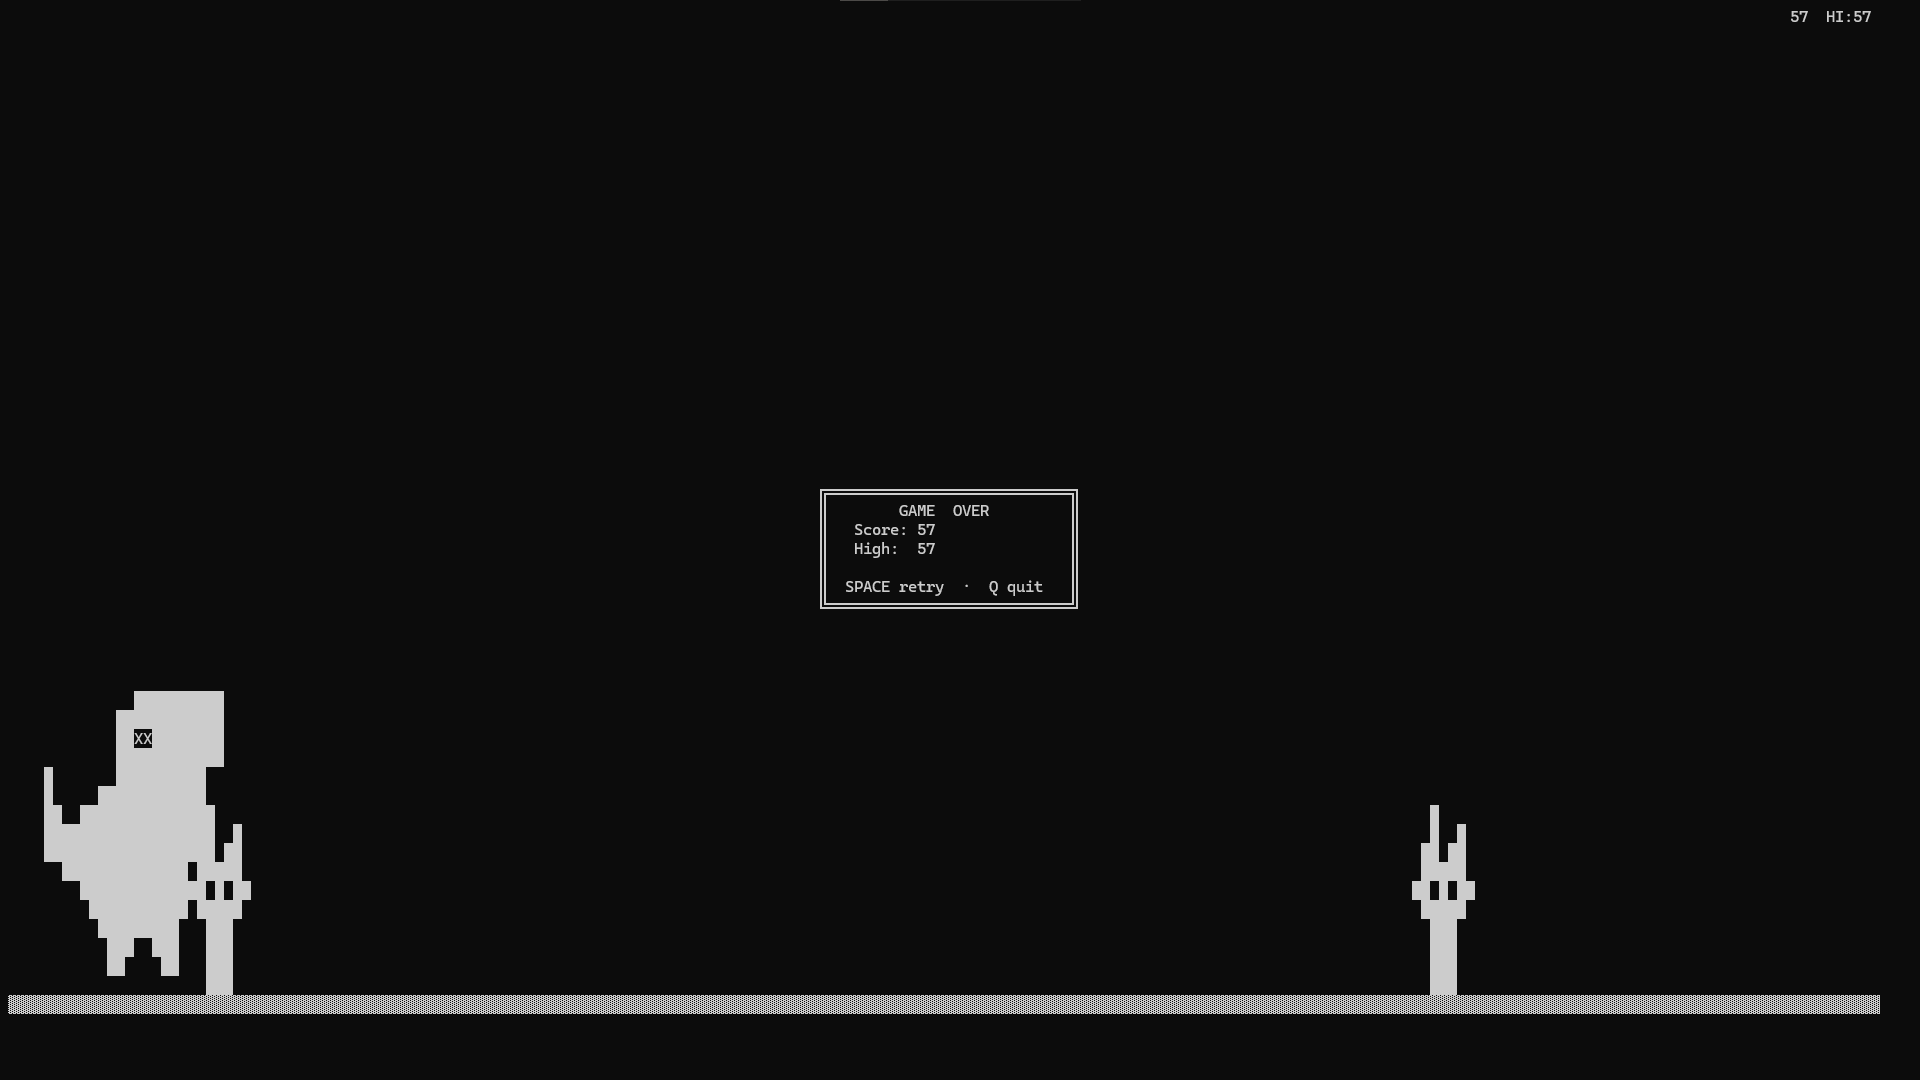
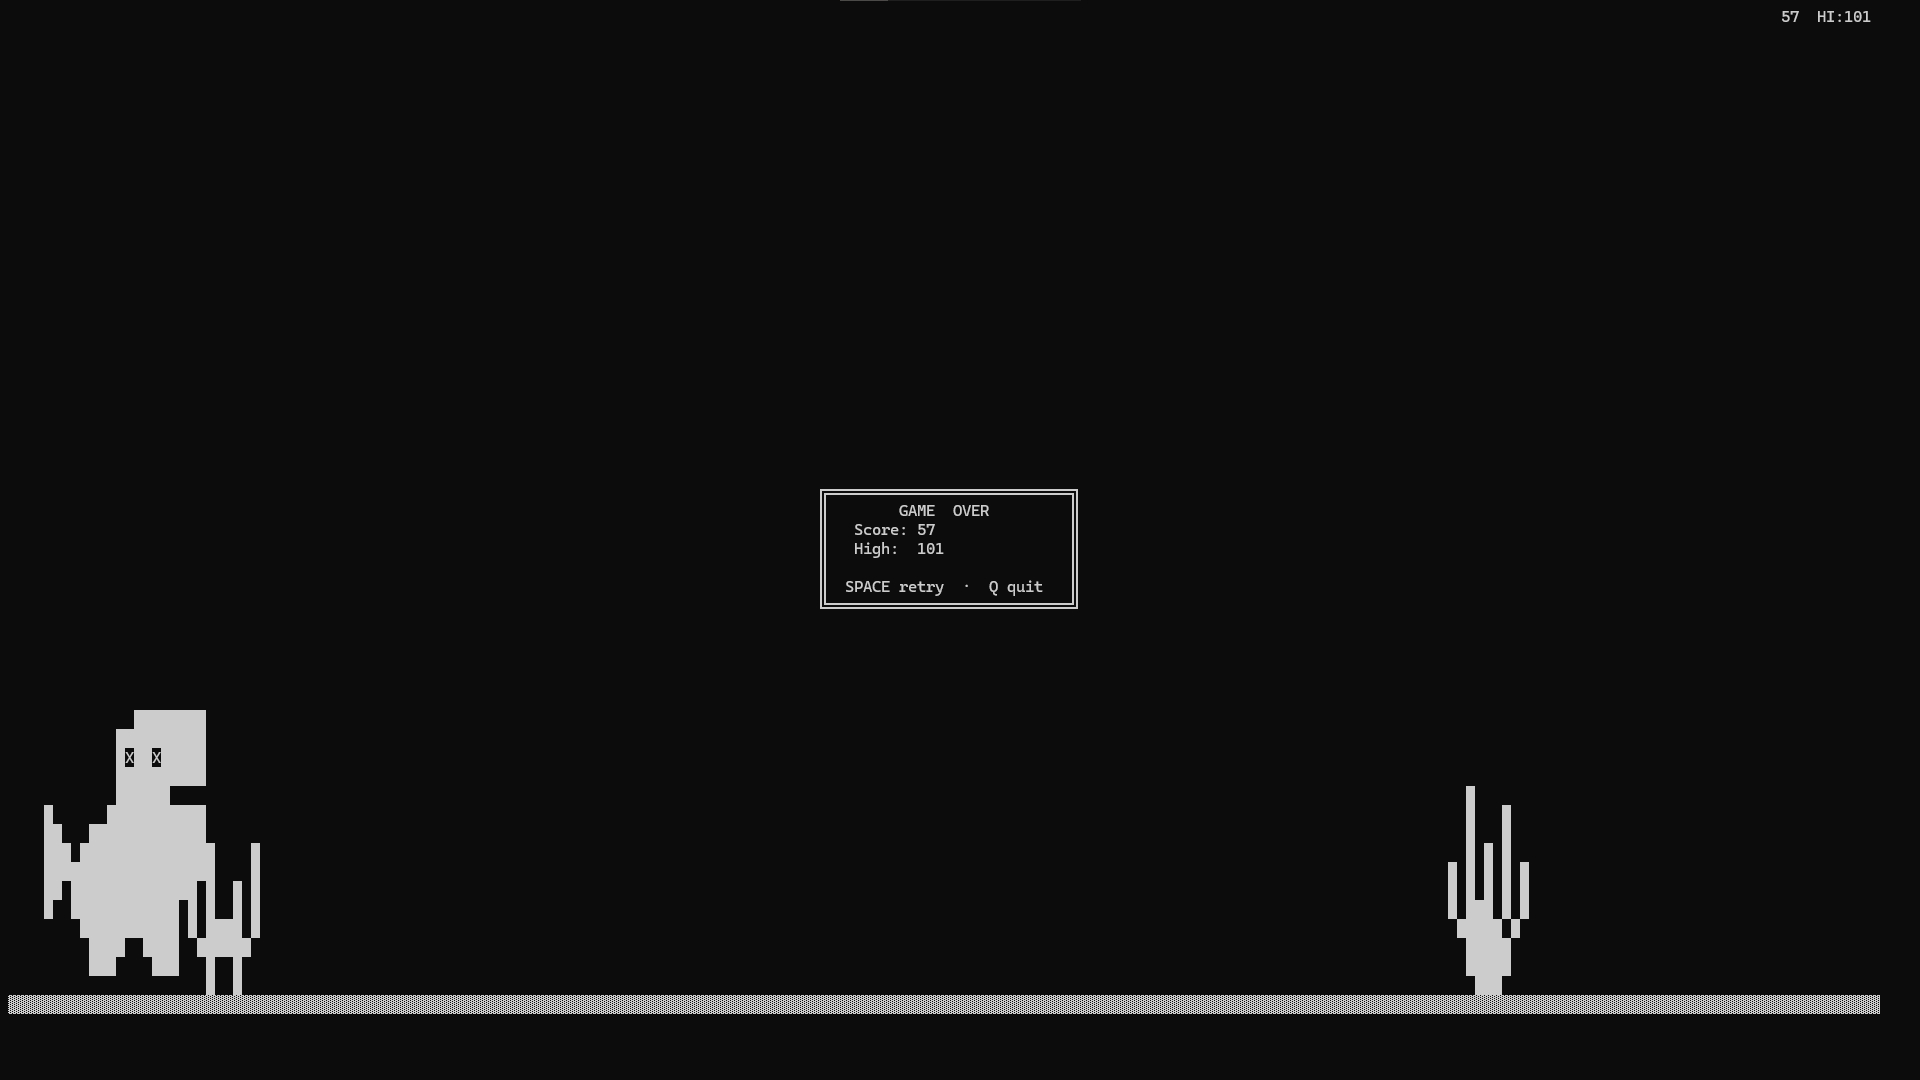
improve sprites

diff --git a/game.py b/game.py
@@ -7,135 +7,138 @@ SPACE/UP = Jump · DOWN = Duck · Q = Quit
 import curses
 import random
 
-# ─── Dino sprites (detailed Unicode) ──────────────────────
+# ─── Chrome Dino style sprites ────────────────────────────
+# Faithful recreation of the iconic Chrome offline T-Rex:
+# flat-top head, dot eye, open jaw, tiny arm, tapered tail
+
 RUN1 = [
-    "            ██████████  ",
-    "          ████████████  ",
-    "          ██░░████████  ",
-    "          ████████████  ",
-    "  █       ██████████    ",
-    "  █     ████████████    ",
-    "  ██  ██████████████    ",
-    "  ██████████████████    ",
-    "  ██████████████████    ",
-    "    ██████████████      ",
-    "      ████████████      ",
-    "       ███████████      ",
-    "        █████████       ",
-    "         ███  ██        ",
-    "         ██    █        ",
-    "         █              ",
+    "            ████████  ",
+    "          ██████████  ",
+    "          █ ████████  ",
+    "          ██████████  ",
+    "          ██████      ",
+    "  █      ███████████  ",
+    "  ██   █████████████  ",
+    "  ███ ██████████████  ",
+    "  ██████████████████  ",
+    "  ██ █████████████    ",
+    "  █  ████████████     ",
+    "      ███████████     ",
+    "       ████  ██       ",
+    "       ███    █       ",
+    "       ██             ",
 ]
 RUN2 = [
-    "            ██████████  ",
-    "          ████████████  ",
-    "          ██░░████████  ",
-    "          ████████████  ",
-    "  █       ██████████    ",
-    "  █     ████████████    ",
-    "  ██  ██████████████    ",
-    "  ██████████████████    ",
-    "  ██████████████████    ",
-    "    ██████████████      ",
-    "      ████████████      ",
-    "       ███████████      ",
-    "        █████████       ",
-    "         ██  ███        ",
-    "         █    ██        ",
-    "              █         ",
+    "            ████████  ",
+    "          ██████████  ",
+    "          █ ████████  ",
+    "          ██████████  ",
+    "          ██████      ",
+    "  █      ███████████  ",
+    "  ██   █████████████  ",
+    "  ███ ██████████████  ",
+    "  ██████████████████  ",
+    "  ██ █████████████    ",
+    "  █  ████████████     ",
+    "      ███████████     ",
+    "       ███  ████      ",
+    "       ██    ███      ",
+    "              ██      ",
 ]
 DUCK1 = [
-    "          ████████████  ",
-    "  █     ████████████████",
-    "  █     ██░░████████████",
-    "  ██  ██████████████████",
-    "  ██████████████████    ",
-    "  ██████████████████    ",
-    "    ██████████████      ",
-    "      ██████████        ",
-    "         ███  ██        ",
-    "         ██    █        ",
-    "         █              ",
+    "                    ████████  ",
+    "  █      ██████████████████  ",
+    "  ██   █ ██████████████████  ",
+    "  ███ ████████████████████   ",
+    "  ████████████████████       ",
+    "  ██ █████████████           ",
+    "  █  ████████████            ",
+    "       ████  ██              ",
+    "       ███    █              ",
+    "       ██                    ",
 ]
 DUCK2 = [
-    "          ████████████  ",
-    "  █     ████████████████",
-    "  █     ██░░████████████",
-    "  ██  ██████████████████",
-    "  ██████████████████    ",
-    "  ██████████████████    ",
-    "    ██████████████      ",
-    "      ██████████        ",
-    "         ██  ███        ",
-    "         █    ██        ",
-    "              █         ",
+    "                    ████████  ",
+    "  █      ██████████████████  ",
+    "  ██   █ ██████████████████  ",
+    "  ███ ████████████████████   ",
+    "  ████████████████████       ",
+    "  ██ █████████████           ",
+    "  █  ████████████            ",
+    "       ███  ████             ",
+    "       ██    ███             ",
+    "              ██             ",
 ]
 DEAD = [
-    "            ██████████  ",
-    "          ████████████  ",
-    "          ██XX████████  ",
-    "          ████████████  ",
-    "  █       ██████████    ",
-    "  █     ████████████    ",
-    "  ██  ██████████████    ",
-    "  ██████████████████    ",
-    "  ██████████████████    ",
-    "    ██████████████      ",
-    "      ████████████      ",
-    "       ███████████      ",
-    "        █████████       ",
-    "         ███  ███       ",
-    "         ██    ██       ",
+    "            ████████  ",
+    "          ██████████  ",
+    "          █X██X█████  ",
+    "          ██████████  ",
+    "          ██████      ",
+    "  █      ███████████  ",
+    "  ██   █████████████  ",
+    "  ███ ██████████████  ",
+    "  ██████████████████  ",
+    "  ██ █████████████    ",
+    "  █  ████████████     ",
+    "      ███████████     ",
+    "       ████  ████     ",
+    "       ███    ███     ",
 ]
 
-# ─── Obstacles ─────────────────────────────────────────────
+# ─── Obstacles (Chrome style) ─────────────────────────────
 CACT_S = [
     "  █  ",
-    " ███ ",
-    " █ █ ",
-    "██ ██",
-    " █ █ ",
+    "  █  ",
+    "█ █  ",
+    "█ █ █",
+    "█ █ █",
     " ███ ",
     "  █  ",
     "  █  ",
 ]
 CACT_B = [
-    "  █    ",
-    "  █  █ ",
-    " ██ ██ ",
-    " █████ ",
-    "██ █ ██",
-    " █████ ",
-    "  ███  ",
-    "  ███  ",
-    "  ███  ",
-    "  ███  ",
+    "  █      ",
+    "  █   █  ",
+    "  █   █  ",
+    "  █ █ █  ",
+    "█ █ █ █ █",
+    "█ █ █ █ █",
+    "█ ███ █ █",
+    " █████ █ ",
+    "  █████  ",
+    "  █████  ",
+    "   ███   ",
 ]
 CACT_D = [
-    " █   █ ",
-    " █  ██ ",
-    "██ █ █ ",
-    " ███ ██",
-    " █ ███ ",
-    " ██ █  ",
-    "  █ █  ",
-    "  █ █  ",
+    "  █    █ ",
+    "  █    █ ",
+    "█ █  █ █ ",
+    "█ █  █ █ ",
+    "█ ████ █ ",
+    " ██████  ",
+    "  █  █   ",
+    "  █  █   ",
 ]
 BIRD1 = [
-    " \\    ",
-    "==██=>",
-    "      ",
+    " ██      ",
+    "████     ",
+    " ██████  ",
+    "  ██████ ",
+    "   ████  ",
 ]
 BIRD2 = [
-    "      ",
-    "==██=>",
-    " /    ",
+    "   ████  ",
+    "  ██████ ",
+    " ██████  ",
+    "████     ",
+    " ██      ",
 ]
 
 # ─── Constants ─────────────────────────────────────────────
 GRAVITY = 0.9
 JUMP_VEL = -9.5
-FPS = 60  # ~30 fps via curses timeout
+FPS = 33  # ~30 fps via curses timeout
 
 
 def overlap(a, b):
@@ -371,7 +374,8 @@ def main(stdscr):
                     kinds.append("bird")
                 k = random.choice(kinds)
                 if k == "bird":
-                    boy = gy - len(BIRD1) - random.choice([3, 6])
+                    # low bird = jump over, high bird = duck under
+                    boy = gy - len(BIRD1) - random.choice([1, 10])
                     obstacles.append([cols + 3, boy, k, 0])
                 else:
                     s = obs_sprite(k, 0)
